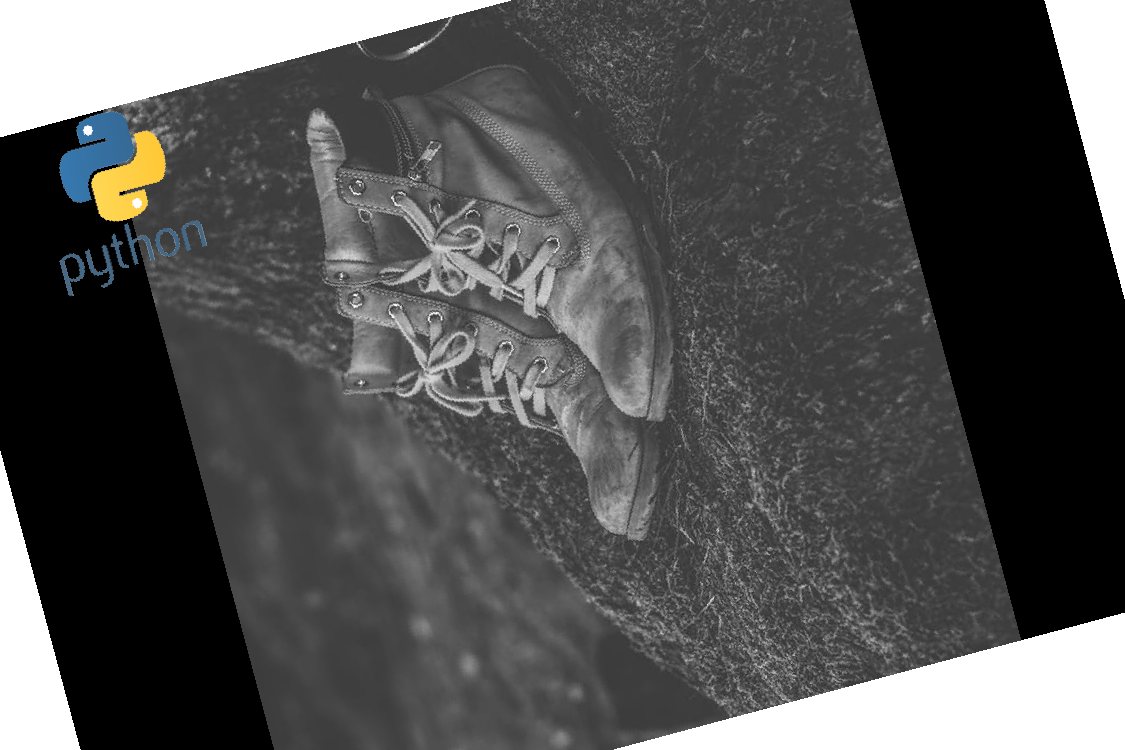
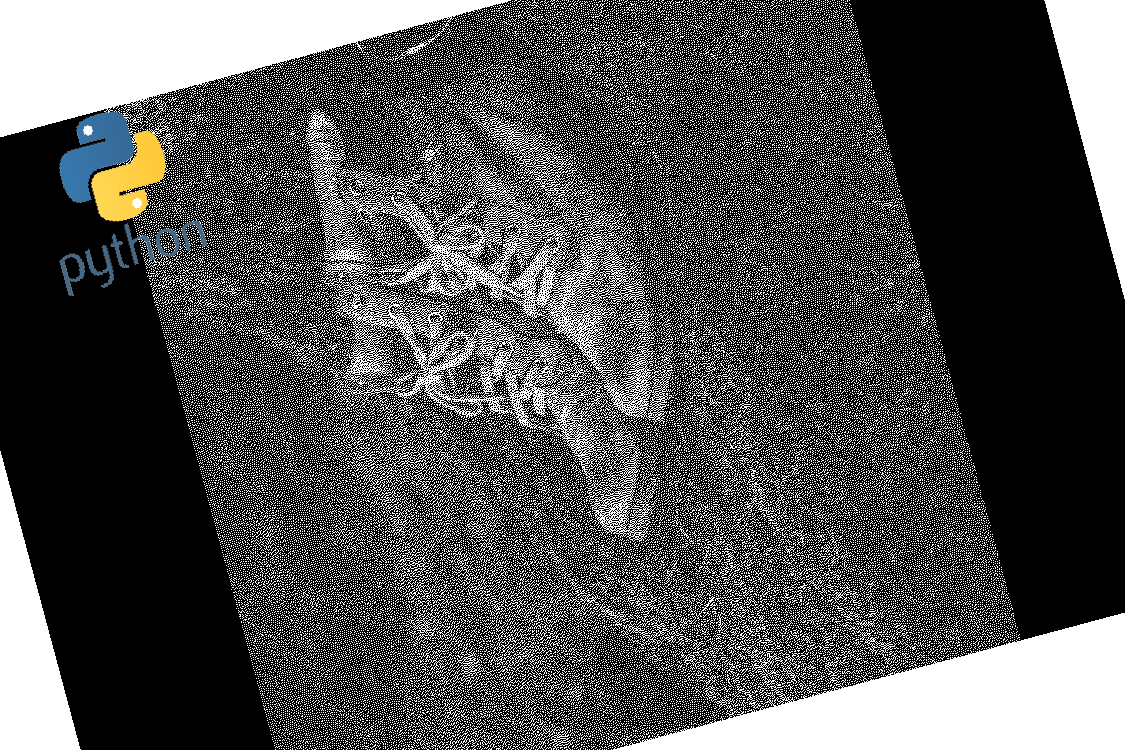
verbose

diff --git a/app/image_converter.py b/app/image_converter.py
@@ -13,6 +13,7 @@ class ArgumentOptions:
     output = None
     ext = None
     verbose = False
+    show = False
     indexes = dict()
     order = []
 
@@ -45,7 +46,7 @@ class ArgumentOptions:
         group.add_argument(
             "--filename",
             dest="filename",
-            help="Image name to be converted, with extention (jpg, png, jpeg)",
+            help="Image name to be converted, with extention (jpg, png, jpeg).",
             type=str,
             default=None,
             required=True,
@@ -53,7 +54,7 @@ class ArgumentOptions:
         group.add_argument(
             "--output",
             dest="output",
-            help="Output filename",
+            help="Output filename.",
             type=str,
             default=None,
             required=True,
@@ -62,14 +63,14 @@ class ArgumentOptions:
             "--ext",
             dest="ext",
             choices=["png", "jpg"],
-            help="Extention output file",
+            help="Extention output file.",
             required=True,
         )
         group.add_argument(
             "--gray_scale",
             dest="gray_scale",
             choices=["bw1bp", "bw8bp"],
-            help="Convert the image to black and white",
+            help="Convert the image to black and white.",
             action="append",
         )
         group.add_argument(
@@ -85,11 +86,17 @@ class ArgumentOptions:
             type=int,
             dest="rotate",
             default=None,
-            help="rotate N degrees.",
+            help="Rotate image N degrees.",
             action="append",
         )
         group.add_argument(
-            "--verbose", dest="verbose", action="store_true", help="verbose mode."
+            "--show",
+            dest="show",
+            action="store_true",
+            help="Show the image to the end.",
+        )
+        group.add_argument(
+            "--verbose", dest="verbose", action="store_true", help="Verbose mode."
         )
         self.options = self.parser.parse_args(self.args)
 
@@ -146,7 +153,10 @@ class ArgumentOptions:
         image_file.save("./temp/temp.png", format="png")
 
     def show_image(self):
-        pass
+        image_file = Image.open(f"./output/{self.output}.{self.ext}")
+        image_file.show()
+        if self.verbose:
+            print(Fore.GREEN + f"[ IMAGE SHOWED ]")
 
     def save_image(self):
         image_file = Image.open("./temp/temp.png")
@@ -157,7 +167,7 @@ class ArgumentOptions:
     def remove_temp(self):
         os.remove("./temp/temp.png")
         if self.verbose:
-            print(Fore.GREEN + f"[ IMAGE REMOVED ]")
+            print(Fore.GREEN + f"[ TEMP IMAGE REMOVED ]")
 
     def execute(self):
         args = vars(self.options)
@@ -165,6 +175,7 @@ class ArgumentOptions:
         self.output = args["output"].replace(".", "")
         self.ext = args["ext"]
         self.verbose = args["verbose"]
+        self.show = args["show"]
         if self.verbose:
             print(Fore.GREEN + "[ INITIALIZED ]")
         # VALIDATIONS
@@ -183,6 +194,8 @@ class ArgumentOptions:
                     self.indexes[oe] = self.indexes[oe] + 1
         self.save_image()
         self.remove_temp()
+        if self.show:
+            self.show_image()
 
 
 if __name__ == "__main__":
